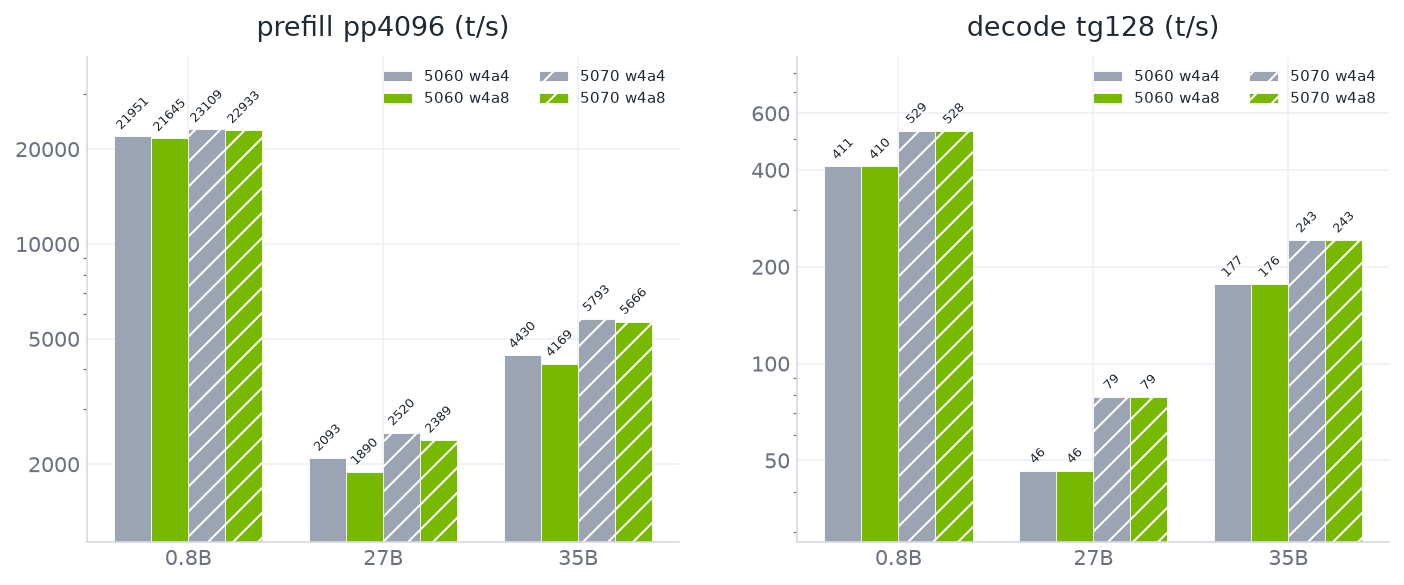
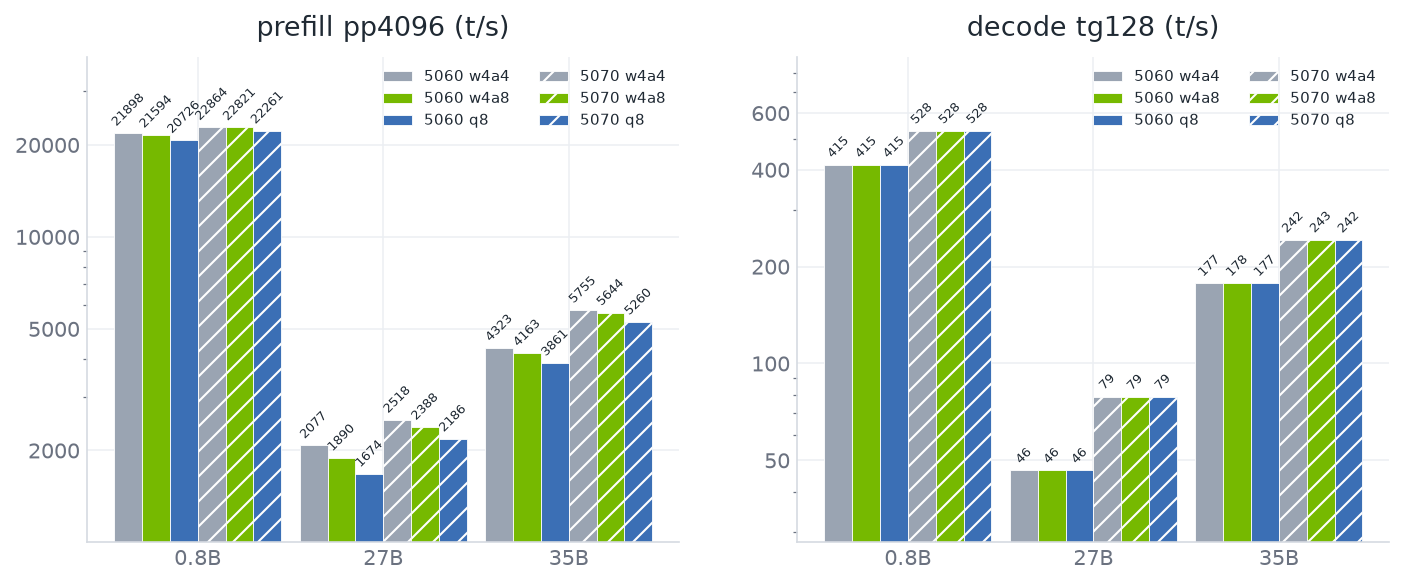
Add Q8_1-activation arm to W4A8 charts + 3-arm tables (both 5060/5070 Ti)

diff --git a/charts.py b/charts.py
@@ -22,6 +22,7 @@ OUT = os.path.dirname(os.path.abspath(__file__))
 PALETTE = {
     "mx":      "#76B900",   # mxfp4 (NVIDIA green)
     "other":   "#9AA4B2",   # everything else (all refs: bf16, Q8_0, q4*, q5*, q3*)
+    "q8":      "#3B6FB5",   # Q8_1 activations (blue)
     "text":    "#1F2933",
     "muted":   "#6B7280",
     "grid":    "#ECEFF3",
@@ -468,12 +469,12 @@ def kv_uos():
 # (pp4096, tg128) t/s, canonical build (f935b7189 / e467e5b5e), imx quants, -sm tensor -fa on -r 5.
 # 5060 Ti = 2x RTX 5060 Ti (spare-parts-2); 5070 Ti = 2x RTX 5070 Ti (beast). Same flags, comparable.
 HW_SPD = {
-    "0.8B": {"5060": {"w4a4": (21951, 410.6), "w4a8": (21645, 410.3)},
-             "5070": {"w4a4": (23109, 529.0), "w4a8": (22933, 527.9)}},
-    "27B":  {"5060": {"w4a4": (2093, 46.5), "w4a8": (1890, 46.5)},
-             "5070": {"w4a4": (2520, 78.9), "w4a8": (2389, 78.7)}},
-    "35B":  {"5060": {"w4a4": (4430, 176.6), "w4a8": (4169, 176.4)},
-             "5070": {"w4a4": (5793, 242.8), "w4a8": (5666, 242.6)}},
+    "0.8B": {"5060": {"w4a4": (21898, 415.0), "w4a8": (21594, 414.6), "q8": (20726, 414.7)},
+             "5070": {"w4a4": (22864, 527.5), "w4a8": (22821, 527.9), "q8": (22261, 528.2)}},
+    "27B":  {"5060": {"w4a4": (2077, 46.5), "w4a8": (1890, 46.5), "q8": (1674, 46.5)},
+             "5070": {"w4a4": (2518, 78.9), "w4a8": (2388, 78.7), "q8": (2186, 78.8)}},
+    "35B":  {"5060": {"w4a4": (4323, 177.4), "w4a8": (4163, 177.5), "q8": (3861, 177.4)},
+             "5070": {"w4a4": (5755, 242.5), "w4a8": (5644, 242.7), "q8": (5260, 242.4)}},
 }
 
 def hw_5060_5070():
@@ -482,8 +483,8 @@ def hw_5060_5070():
     models = list(HW_SPD.keys())
     panels = [("prefill pp4096 (t/s)", 0, [1000, 2000, 5000, 10000, 20000, 40000]),
               ("decode tg128 (t/s)", 1, [25, 50, 100, 200, 400, 600])]
-    arms = [("5060", "w4a4", None), ("5060", "w4a8", None),
-            ("5070", "w4a4", "//"), ("5070", "w4a8", "//")]
+    arms = [("5060", "w4a4", None), ("5060", "w4a8", None), ("5060", "q8", None),
+            ("5070", "w4a4", "//"), ("5070", "w4a8", "//"), ("5070", "q8", "//")]
     for col, (title, i, yticks) in enumerate(panels):
         style_axes(ax[col], title=title)
         ax[col].set_yscale("log")
@@ -491,15 +492,15 @@ def hw_5060_5070():
         ax[col].yaxis.set_major_formatter(FuncFormatter(lambda v, _: f"{v:.0f}"))
         ax[col].tick_params(which="minor", labelleft=False, labelbottom=False)
         x = np.arange(len(models))
-        w = 0.19
+        w = 0.15
         for si, (hw, a, h) in enumerate(arms):
             v = [HW_SPD[m][hw][a][i] for m in models]
-            b = ax[col].bar(x + (si - 1.5) * w, v, width=w,
-                           color=PALETTE["mx"] if a == "w4a8" else PALETTE["other"],
+            b = ax[col].bar(x + (si - 2.5) * w, v, width=w,
+                           color={"w4a4": PALETTE["other"], "w4a8": PALETTE["mx"], "q8": PALETTE["q8"]}[a],
                            hatch=h, edgecolor="white", linewidth=0.4, label=f"{hw} {a}")
             ax[col].bar_label(b, fmt="%.0f", fontsize=6, color=PALETTE["text"], padding=2, rotation=45)
         ax[col].set_xticks(x); ax[col].set_xticklabels(models)
-        allv = [HW_SPD[m][hw][a][i] for m in models for hw in ("5060", "5070") for a in ("w4a4", "w4a8")]
+        allv = [HW_SPD[m][hw][a][i] for m in models for hw in ("5060", "5070") for a in ("w4a4", "w4a8", "q8")]
         ax[col].set_ylim(min(allv) * 0.6, max(allv) * 1.7)
         ax[col].legend(frameon=False, fontsize=7, loc="upper right", ncol=2)
     save(fig, "w4a8-5060-vs-5070.png")
@@ -507,12 +508,15 @@ def hw_5060_5070():
 # ------------------------------------------------------------------ W4A8 vs W4A4 (this branch)
 # imx quants, canonical build, 2x RTX 5060 Ti. (kld, ppl, topp, pp4096, tg128)
 W4A_RES = {
-    "0.8B": {"w4a4": (0.407429, 21.3419, 69.960, 21951, 410.6),
-             "w4a8": (0.149528, 16.1806, 81.248, 21645, 410.3)},
-    "27B":  {"w4a4": (0.183180,  6.5662, 84.104,  2093,  46.5),
-             "w4a8": (0.089938,  6.3581, 90.166,  1890,  46.5)},
-    "35B":  {"w4a4": (0.168713,  6.4702, 82.668,  4431, 176.6),
-             "w4a8": (0.068391,  5.9333, 89.356,  4169, 176.4)},
+    "0.8B": {"w4a4": (0.407429, 21.3419, 69.960, 21898, 415.0),
+             "w4a8": (0.149528, 16.1806, 81.248, 21594, 414.6),
+             "q8":   (0.143151, 16.0858, 81.646, 20726, 414.7)},
+    "27B":  {"w4a4": (0.183180,  6.5662, 84.104,  2077, 46.5),
+             "w4a8": (0.089938,  6.3581, 90.166,  1890, 46.5),
+             "q8":   (0.085955,  6.3446, 90.500,  1674, 46.5)},
+    "35B":  {"w4a4": (0.168713,  6.4702, 82.668,  4323, 177.4),
+             "w4a8": (0.068391,  5.9333, 89.356,  4163, 177.5),
+             "q8":   (0.065711,  5.9161, 89.571,  3861, 177.4)},
 }
 
 def w4a8_results():
@@ -530,15 +534,15 @@ def w4a8_results():
         ax[p].set_yticks(yticks)
         ax[p].yaxis.set_major_formatter(FuncFormatter(lambda v, _: f"{v:g}"))
         ax[p].tick_params(which="minor", labelleft=False, labelbottom=False)
-        x = np.arange(len(models)); w = 0.34
-        for si, arm in enumerate(("w4a4", "w4a8")):
+        x = np.arange(len(models)); w = 0.27
+        for si, arm in enumerate(("w4a4", "w4a8", "q8")):
             v = [W4A_RES[m][arm][idx] for m in models]
-            b = ax[p].bar(x + (si - 0.5) * w, v, width=w,
-                          color=PALETTE["mx"] if arm == "w4a8" else PALETTE["other"],
+            b = ax[p].bar(x + (si - 1.0) * w, v, width=w,
+                          color={"w4a4": PALETTE["other"], "w4a8": PALETTE["mx"], "q8": PALETTE["q8"]}[arm],
                           edgecolor="white", linewidth=0.4, label=arm)
-            ax[p].bar_label(b, fmt=fmt, fontsize=7.5, color=PALETTE["text"], padding=2)
+            ax[p].bar_label(b, fmt=fmt, fontsize=7.5, color=PALETTE["text"], padding=2, rotation=90)
         ax[p].set_xticks(x); ax[p].set_xticklabels(models)
-        allv = [W4A_RES[m][a][idx] for m in models for a in ("w4a4", "w4a8")]
+        allv = [W4A_RES[m][a][idx] for m in models for a in ("w4a4", "w4a8", "q8")]
         ax[p].set_ylim(min(allv) * 0.85, max(allv) * 1.22)
         ax[p].legend(frameon=False, fontsize=8, loc="upper right")
     ax[5].set_visible(False)

diff --git a/audit_pr_data.py b/audit_pr_data.py
@@ -127,9 +127,32 @@ def audit_hw_table(md):
             close(pp, charts.HW_SPD[model][hw][a][0], 0.5, f"HW {model} {hw} {a} pp")
             close(tg, charts.HW_SPD[model][hw][a][1], 0.1, f"HW {model} {hw} {a} tg")
 
+def audit_w4a_results(md):
+    # accuracy: | model | arm | KLD | PPL | top-p |  (5060 Ti values, hardware-invariant)
+    for _model, cells in table_rows(md, "| model | arm | KLD | PPL | top-p |"):
+        model, arm = cells[0], cells[1]
+        if model not in charts.W4A_RES:
+            errors.append(f"RES: no chart row for {model!r}"); continue
+        r = charts.W4A_RES[model][arm]
+        close(fnum(cells[2]), r[0], 0.0000005, f"RES acc {model} {arm} kld")
+        close(fnum(cells[3]), r[1], 0.0005, f"RES acc {model} {arm} ppl")
+        close(fnum(cells[4]), r[2], 0.0005, f"RES acc {model} {arm} topp")
+    # throughput: two tables share one header | model | arm | pp4096 | tg128 |
+    # the first nine rows are 5070 Ti, the next nine are 5060 Ti (HW_SPD)
+    spd = [c for _m, c in table_rows(md, "| model | arm | pp4096 | tg128 |")]
+    for i, cells in enumerate(spd):
+        model, arm = cells[0], cells[1]
+        if model not in charts.HW_SPD:
+            errors.append(f"RES spd: no chart row for {model!r}"); continue
+        hw = "5070" if i < 9 else "5060"
+        pp, tg = charts.HW_SPD[model][hw][arm]
+        close(fnum(cells[2]), pp, 0.6, f"RES spd {model} {hw} {arm} pp")
+        close(fnum(cells[3]), tg, 0.1, f"RES spd {model} {hw} {arm} tg")
+
 def main():
     md = open(BODY).read()
     audit_ppl_tables(md)
+
     audit_kl_tables(md)
     audit_kv_table(md)
     audit_w4a8_table(md)

diff --git a/PR-body.md b/PR-body.md
@@ -28,31 +28,49 @@ scales and multiplied against the e2m1 weights with the block-scaled `kind::mxf8
 imatrix mxfp4 files. KLD and PPL from `llama-perplexity --kl-divergence --file wikitext-2
 --context-size 4096` over 72 chunks against the BF16 base. Throughput from `llama-bench
 --n-gpu-layers 999 --split-mode tensor --flash-attn on --n-prompt 4096 --n-predict 128
---n-repeat 5`.
+--n-repeat 5`. Accuracy is hardware-invariant; the 2x RTX 5070 Ti run agrees within rounding.
 
 Accuracy:
 
-| model | KLD W4A4 | KLD W4A8 | PPL W4A4 | PPL W4A8 | top-p W4A4 | top-p W4A8 |
-|---|---:|---:|---:|---:|---:|---:|
-| 0.8B  | 0.407429 | 0.149528 | 21.3419 | 16.1806 | 69.960 | 81.248 |
-| 27B   | 0.183180 | 0.089938 |  6.5662 |  6.3581 | 84.104 | 90.166 |
-| 35B   | 0.168713 | 0.068391 |  6.4702 |  5.9333 | 82.668 | 89.356 |
-
-Throughput, 2x RTX 5060 Ti:
-
-| model | pp4096 W4A4 | pp4096 W4A8 | tg128 W4A4 | tg128 W4A8 |
-|---|---:|---:|---:|---:|
-| 0.8B  | 21951 | 21645 | 410.6 | 410.3 |
-| 27B   |  2093 |  1890 |  46.5 |  46.5 |
-| 35B   |  4431 |  4169 | 176.6 | 176.4 |
+| model | arm | KLD | PPL | top-p |
+|---|---|---:|---:|---:|
+| 0.8B  | w4a4 | 0.407429 | 21.3419 | 69.960 |
+| 0.8B  | w4a8 | 0.149528 | 16.1806 | 81.248 |
+| 0.8B  | q8   | 0.143151 | 16.0858 | 81.646 |
+| 27B   | w4a4 | 0.183180 |  6.5662 | 84.104 |
+| 27B   | w4a8 | 0.089938 |  6.3581 | 90.166 |
+| 27B   | q8   | 0.085955 |  6.3446 | 90.500 |
+| 35B   | w4a4 | 0.168713 |  6.4702 | 82.668 |
+| 35B   | w4a8 | 0.068391 |  5.9333 | 89.356 |
+| 35B   | q8   | 0.065711 |  5.9161 | 89.571 |
 
 Throughput, 2x RTX 5070 Ti:
 
-| model | pp4096 W4A4 | pp4096 W4A8 | tg128 W4A4 | tg128 W4A8 |
-|---|---:|---:|---:|---:|
-| 0.8B  | 23109 | 22933 | 529.0 | 527.9 |
-| 27B   |  2520 |  2389 |  78.9 |  78.7 |
-| 35B   |  5793 |  5666 | 242.8 | 242.6 |
+| model | arm | pp4096 | tg128 |
+|---|---|---:|---:|
+| 0.8B  | w4a4 | 22864 | 527.5 |
+| 0.8B  | w4a8 | 22821 | 527.9 |
+| 0.8B  | q8   | 22261 | 528.2 |
+| 27B   | w4a4 |  2518 |  78.9 |
+| 27B   | w4a8 |  2388 |  78.7 |
+| 27B   | q8   |  2186 |  78.8 |
+| 35B   | w4a4 |  5755 | 242.5 |
+| 35B   | w4a8 |  5644 | 242.7 |
+| 35B   | q8   |  5260 | 242.4 |
+
+Throughput, 2x RTX 5060 Ti:
+
+| model | arm | pp4096 | tg128 |
+|---|---|---:|---:|
+| 0.8B  | w4a4 | 21898 | 415.0 |
+| 0.8B  | w4a8 | 21594 | 414.6 |
+| 0.8B  | q8   | 20726 | 414.7 |
+| 27B   | w4a4 |  2077 |  46.5 |
+| 27B   | w4a8 |  1890 |  46.5 |
+| 27B   | q8   |  1674 |  46.5 |
+| 35B   | w4a4 |  4323 | 177.4 |
+| 35B   | w4a8 |  4163 | 177.5 |
+| 35B   | q8   |  3861 | 177.4 |
 
 </details>
 
